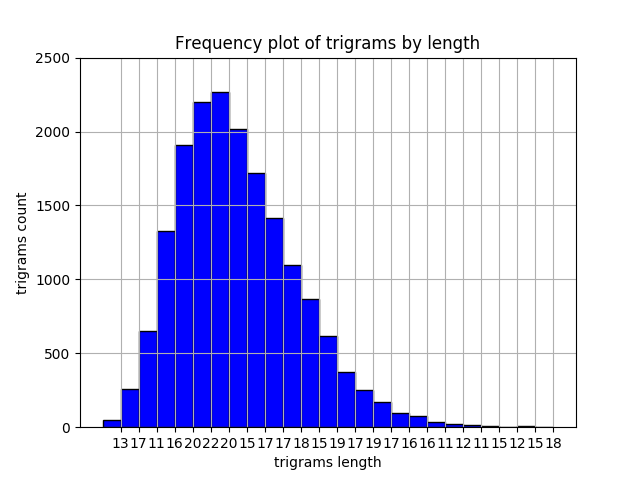
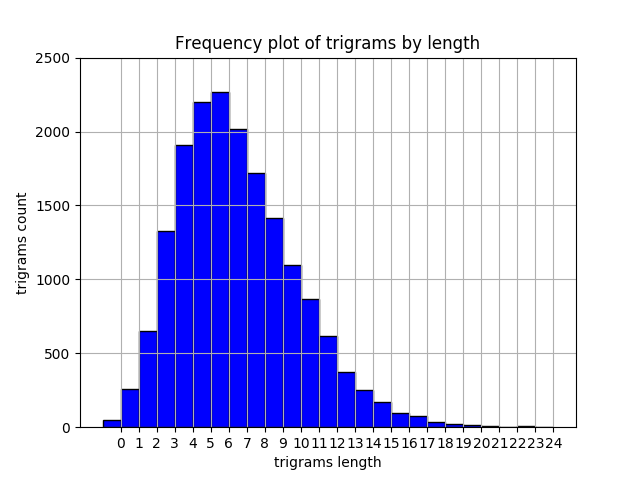
Correct minor errors

Changed region(s): [[0.1562, 0.9062, 0.625, 0.9375], [0.6562, 0.9062, 0.875, 0.9375]]

diff --git a/code/assignment_1.py b/code/assignment_1.py
@@ -79,7 +79,7 @@ def freq_plot(len_list, n):
     ngram_label = get_label(n, True)
     ax = pyplot.axes()
     ax.set_xticks(pos + (width / 2))
-    ax.set_xticklabels(len_list)
+    ax.set_xticklabels(pos)
     ax.set_xlabel(ngram_label + " length")
     ax.set_ylabel(ngram_label + " count")
     ax.set_title("Frequency plot of {} by length".format(ngram_label))

diff --git a/report/report.md b/report/report.md
@@ -1,4 +1,4 @@
-****# CS565: Assignment-1
+# CS565: Assignment-1
 
 ## Basic pre-processing: Segmentation, N-Gram Analysis, Collocation
 
@@ -21,6 +21,7 @@ Create a dictionary after detecting words from all sentences.
 
 Total number of words in corpus is 22211.
 Total number of unique words in corpus is 4094.
+
 ---
 
 **Q3**
